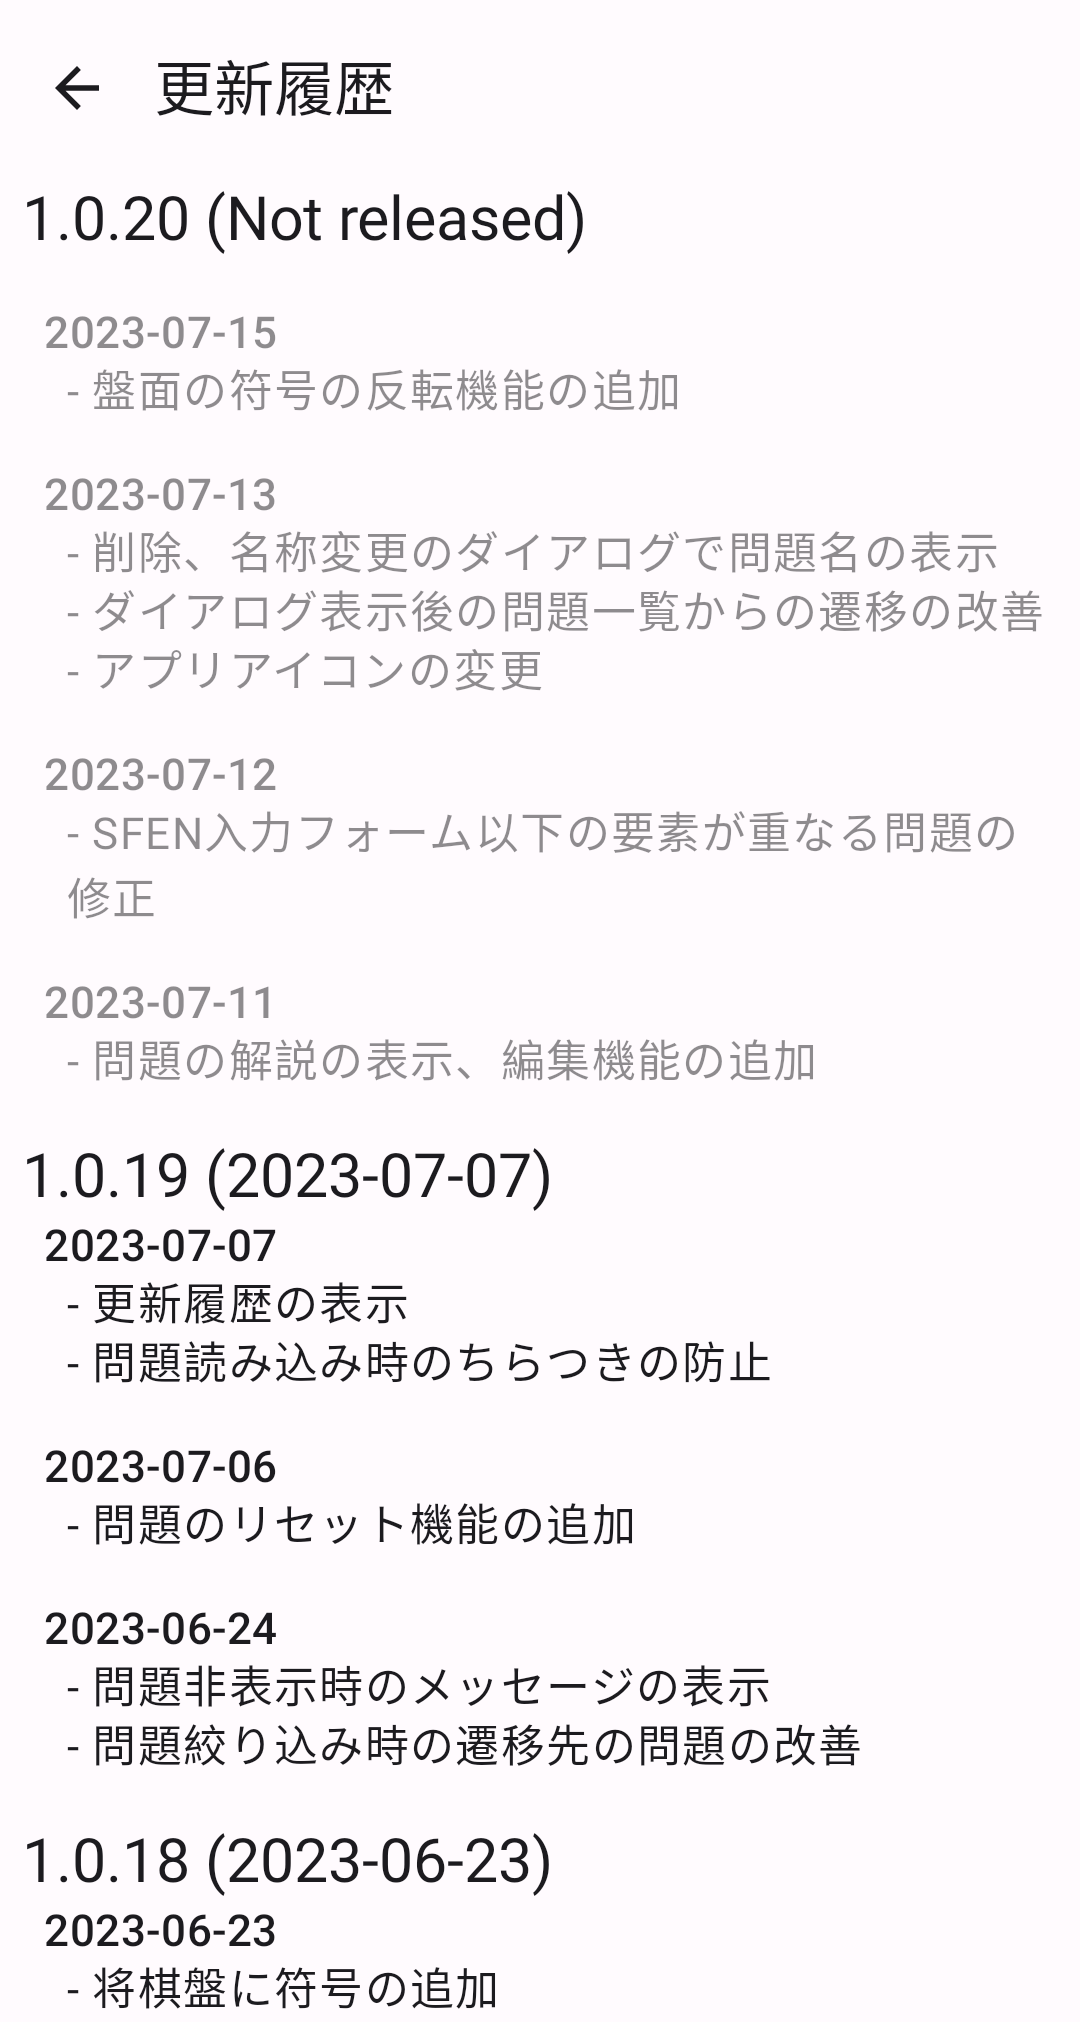
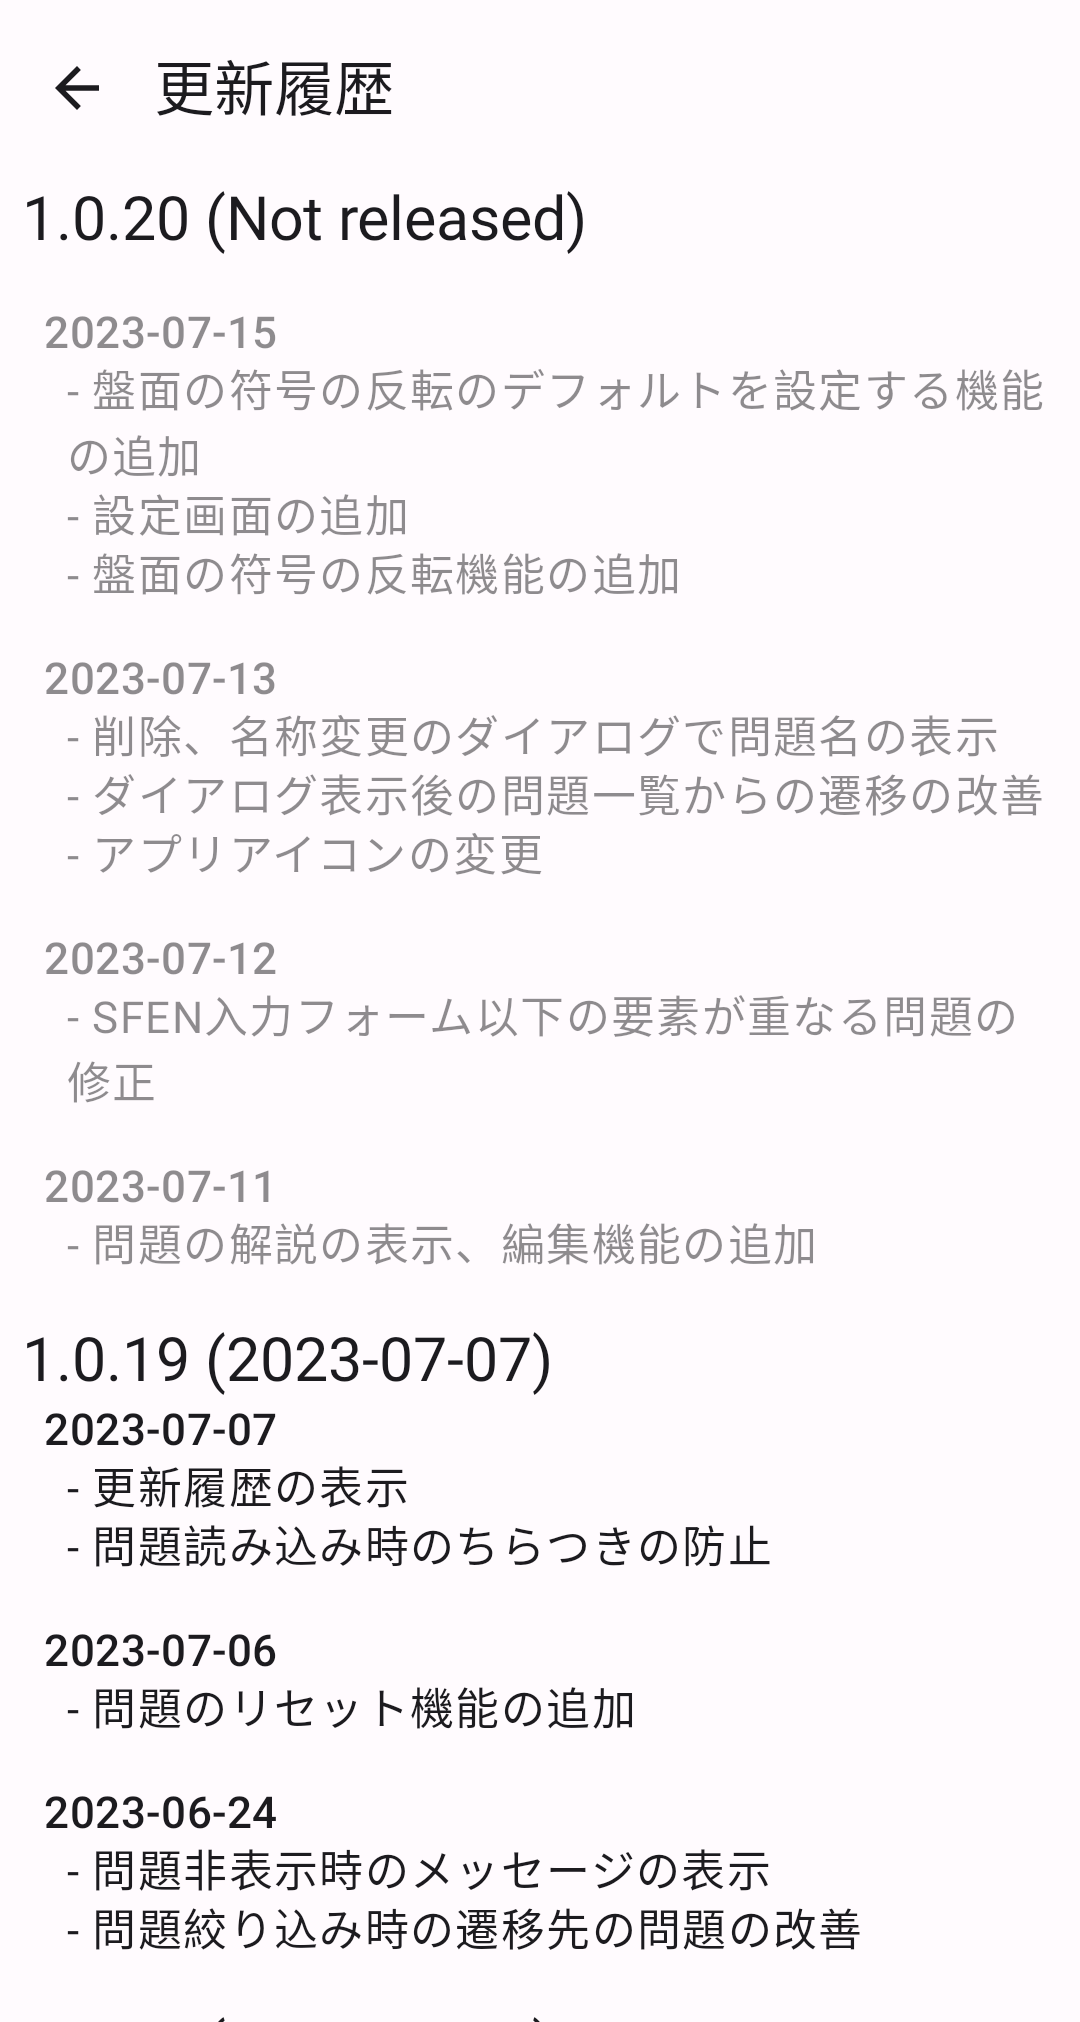
load reverseBoardSigns preference set in settingScreen

diff --git a/app/src/main/java/jp/kawagh/kiando/GameViewModel.kt b/app/src/main/java/jp/kawagh/kiando/GameViewModel.kt
@@ -26,7 +26,6 @@ import jp.kawagh.kiando.models.fromEnemyKomadai
 import jp.kawagh.kiando.models.fromMyKomadai
 import jp.kawagh.kiando.network.KiandoApiService
 import kotlinx.coroutines.Dispatchers
-import kotlinx.coroutines.flow.collectLatest
 import kotlinx.coroutines.launch
 import okhttp3.MediaType.Companion.toMediaType
 import okhttp3.MultipartBody
@@ -38,7 +37,7 @@ import java.net.ConnectException
 
 const val BOARD_SIZE = 9
 
-data class GameUiState(val isRequesting: Boolean, val reverseBoardSigns: Boolean)
+data class GameUiState(val isRequesting: Boolean)
 
 @Suppress(
     "TooManyFunctions",
@@ -49,7 +48,7 @@ data class GameUiState(val isRequesting: Boolean, val reverseBoardSigns: Boolean
 )
 class GameViewModel @AssistedInject constructor(
     private val repository: Repository,
-    private val preferencesRepository: PreferencesRepository,
+    preferencesRepository: PreferencesRepository,
     private val apiService: KiandoApiService,
     @ApplicationContext private val context: Context,
     @Assisted private val question: Question
@@ -63,22 +62,14 @@ class GameViewModel @AssistedInject constructor(
         ): GameViewModel
     }
 
-    var uiState by mutableStateOf(GameUiState(isRequesting = false, reverseBoardSigns = false))
+    var uiState by mutableStateOf(GameUiState(isRequesting = false))
     var boardState: SnapshotStateList<PanelState> = question.boardState.toMutableStateList()
     var komadaiState: SnapshotStateList<PieceKind> = question.myKomadai.toMutableStateList()
     var enemyKomadaiState: SnapshotStateList<PieceKind> = question.enemyKomadai.toMutableStateList()
 
-    init {
-        // load preference
-        Timber.d("INIT called")
-        // FIXME init repeatedly called after updating uiState and cannot move
-        viewModelScope.launch {
-            preferencesRepository.reverseBoardSigns.collectLatest {
-                // update uiState
-                uiState = uiState.copy(reverseBoardSigns = it)
-            }
-        }
-    }
+    // GameUiStateに含めない
+    // 含めた時にinit{}で値を更新すると繰り返しinit{}が呼ばれて局面の更新が不可能になった
+    val preferenceReverseBoardSigns = preferencesRepository.reverseBoardSigns
 
     fun uploadImage(uri: Uri) {
         val file = getFileFromContentUri(uri) ?: return
@@ -123,7 +114,7 @@ class GameViewModel @AssistedInject constructor(
                 when (boardState[fromIndex].isEnemy) {
                     true ->
                         !boardState[fromIndex].isPromoted &&
-                                (move.from.row >= BOARD_SIZE - 3 || move.to.row >= BOARD_SIZE - 3)
+                            (move.from.row >= BOARD_SIZE - 3 || move.to.row >= BOARD_SIZE - 3)
 
                     false ->
                         !boardState[fromIndex].isPromoted && (move.from.row < 3 || move.to.row < 3)
@@ -140,13 +131,13 @@ class GameViewModel @AssistedInject constructor(
         return when (boardState[fromIndex].pieceKind) {
             PieceKind.KNIGHT ->
                 (!boardState[fromIndex].isEnemy && move.to.row < 2) ||
-                        (boardState[fromIndex].isEnemy && move.to.row >= BOARD_SIZE - 2)
+                    (boardState[fromIndex].isEnemy && move.to.row >= BOARD_SIZE - 2)
 
             PieceKind.LANCE -> (!boardState[fromIndex].isEnemy && move.to.row == 0) ||
-                    (boardState[fromIndex].isEnemy && move.to.row == BOARD_SIZE - 1)
+                (boardState[fromIndex].isEnemy && move.to.row == BOARD_SIZE - 1)
 
             PieceKind.PAWN -> (!boardState[fromIndex].isEnemy && move.to.row == 0) ||
-                    (boardState[fromIndex].isEnemy && move.to.row == BOARD_SIZE - 1)
+                (boardState[fromIndex].isEnemy && move.to.row == BOARD_SIZE - 1)
 
             else -> false
         }
@@ -228,9 +219,9 @@ class GameViewModel @AssistedInject constructor(
     private fun List<Position>.filterMovable(panelState: PanelState): List<Position> {
         return this.filter {
             isInside(it) && (
-                    boardState[posToIndex(it)].pieceKind == PieceKind.EMPTY ||
-                            (boardState[posToIndex(it)].isEnemy.xor(panelState.isEnemy)) // 敵対している駒か
-                    )
+                boardState[posToIndex(it)].pieceKind == PieceKind.EMPTY ||
+                    (boardState[posToIndex(it)].isEnemy.xor(panelState.isEnemy)) // 敵対している駒か
+                )
         }
     }
 

diff --git a/app/src/main/java/jp/kawagh/kiando/ui/screens/MainScreen.kt b/app/src/main/java/jp/kawagh/kiando/ui/screens/MainScreen.kt
@@ -51,6 +51,7 @@ import androidx.compose.material3.rememberBottomSheetScaffoldState
 import androidx.compose.material3.rememberStandardBottomSheetState
 import androidx.compose.runtime.Composable
 import androidx.compose.runtime.LaunchedEffect
+import androidx.compose.runtime.collectAsState
 import androidx.compose.runtime.getValue
 import androidx.compose.runtime.mutableStateListOf
 import androidx.compose.runtime.mutableStateOf
@@ -157,7 +158,9 @@ fun MainScreen(
     var reverseBoardSigns by remember {
         mutableStateOf(false)
     }
-    val resultReverseBoardSigns = if (uiState.reverseBoardSigns) {
+    val preferenceReverseBoardSigns =
+        gameViewModel.preferenceReverseBoardSigns.collectAsState(initial = false).value
+    val resultReverseBoardSigns = if (preferenceReverseBoardSigns) {
         !reverseBoardSigns
     } else {
         reverseBoardSigns

diff --git a/app/src/main/java/jp/kawagh/kiando/ui/screens/ChangeLogScreen.kt b/app/src/main/java/jp/kawagh/kiando/ui/screens/ChangeLogScreen.kt
@@ -35,6 +35,8 @@ object ChangeLogs {
     // want to manage only data or `CHANGELOG.md`
     val data: List<BaseChangeLog> =
         listOf(
+            ChangeLog(title = "盤面の符号の反転のデフォルトを設定する機能の追加", date = LocalDate.of(2023, 7, 15)),
+            ChangeLog(title = "設定画面の追加", date = LocalDate.of(2023, 7, 15)),
             ChangeLog(title = "盤面の符号の反転機能の追加", date = LocalDate.of(2023, 7, 15)),
             ChangeLog(title = "削除、名称変更のダイアログで問題名の表示", date = LocalDate.of(2023, 7, 13)),
             ChangeLog(title = "ダイアログ表示後の問題一覧からの遷移の改善", date = LocalDate.of(2023, 7, 13)),

diff --git a/CHANGELOG.md b/CHANGELOG.md
@@ -2,6 +2,8 @@
 
 ## v1.0.20 [Not released]
 
+- 盤面の符号の反転のデフォルトを設定する機能の追加
+- 設定画面の追加
 - 盤面の符号の反転機能の追加
 - 削除、名称変更のダイアログで問題名の表示
 - ダイアログ表示後の問題一覧からの遷移の改善
